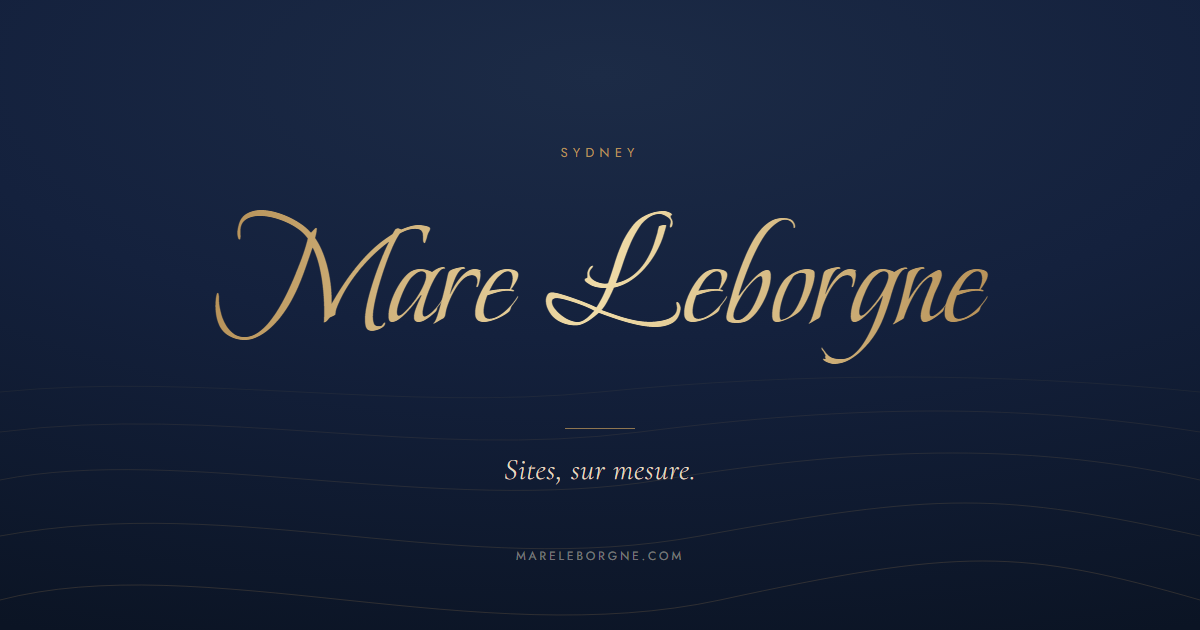
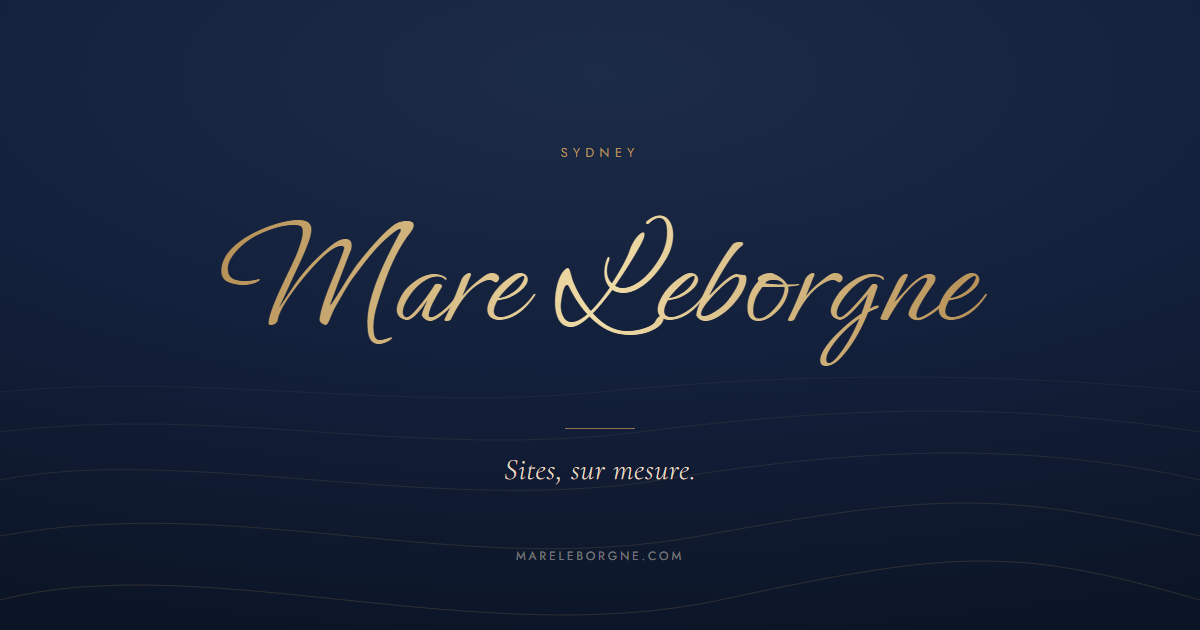
Set the wordmark in Ephesis
Beau Rivage was elegant but formal. Ephesis is warmer and slightly
irregular, so the mark reads as written rather than engraved, and the
"Augusto Leborgne" signature now looks like a signature.

Subset through the same ?text= endpoint and inlined as before, so the
mark still paints on first render with no third-party round trip. The
unicode-range is identical, and the subset is 5,828 bytes against Beau
Rivage's 7,464, so the page gets smaller.

og-card.html and og.png regenerated to match. Anyone who already has the
old card cached will keep it; the scrapers refresh on their own schedule.

Changed region(s): [[0.185, 0.3317, 0.8325, 0.6032], [0.1542, 0.4825, 0.185, 0.5127]]

diff --git a/index.html b/index.html
@@ -36,22 +36,22 @@
 
 <link rel="preconnect" href="https://fonts.googleapis.com">
 <link rel="preconnect" href="https://fonts.gstatic.com" crossorigin>
-<!-- Beau Rivage is inlined in the stylesheet below; only the faces actually used
+<!-- Ephesis is inlined in the stylesheet below; only the faces actually used
      by a rule are requested here (6, not the 13 that were being downloaded) -->
 <link href="https://fonts.googleapis.com/css2?family=Cormorant+Garamond:ital,wght@0,300;0,400;1,300;1,400&family=EB+Garamond:wght@400&family=Jost:wght@400&display=swap" rel="stylesheet">
 <style>
-  /* Beau Rivage, subset to just the letters in "Mare Leborgne" (6,140 bytes
-     against 38,004 for the full Latin face). Inlined so the wordmark paints on
-     first render with no third-party round trip: with a normal webfont link the
-     138px mark shows in the browser's `cursive` generic first, which on Windows
-     Chrome is Comic Sans. The unicode-range is Google's own and must stay as it
-     is — it lets any character outside those letters fall through to the next
-     font in the stack instead of rendering as tofu. Licence: OFL.
-     Regenerate via the ?text= endpoint if the wordmark ever changes. */
+  /* Ephesis, subset to the letters in "Mare Leborgne" and the "Augusto
+     Leborgne" signature (5,828 bytes against the full Latin face). Inlined so
+     the wordmark paints on first render with no third-party round trip: with a
+     normal webfont link the 138px mark shows in the browser's `cursive` generic
+     first, which on Windows Chrome is Comic Sans. The unicode-range is Google's
+     own and must stay as it is — it lets any character outside those letters
+     fall through to the next font in the stack instead of rendering as tofu.
+     Licence: OFL. Regenerate via the ?text= endpoint if the wordmark changes. */
   @font-face{
-    font-family:'Beau Rivage';
+    font-family:'Ephesis';
     font-style:normal;font-weight:400;font-display:block;
[2 lines of base64/hex data omitted]
     unicode-range:U+20,U+41,U+4c-4d,U+61-62,U+65,U+67,U+6e-6f,U+72-75;
   }
 
@@ -154,7 +154,7 @@
     transform:translateY(-101%);transition:transform 1s var(--ease);
   }
   header.visible{transform:translateY(0);}
-  header .hmark{font-family:'Beau Rivage',cursive;font-size:27px;color:var(--brass);line-height:1;text-decoration:none;display:inline-block;padding:5px 2px;}
+  header .hmark{font-family:'Ephesis',cursive;font-size:27px;color:var(--brass);line-height:1;text-decoration:none;display:inline-block;padding:5px 2px;}
   header a.henq{
     font-family:'Jost',sans-serif;font-size:11px;letter-spacing:.2em;text-transform:uppercase;
     color:var(--ivory);text-decoration:none;position:relative;
@@ -232,7 +232,7 @@
   }
   .hero .eyebrow .clock{color:rgba(243,236,221,.65);}
   .hero h1{
-    font-family:'Beau Rivage',cursive;font-weight:400;
+    font-family:'Ephesis',cursive;font-weight:400;
     /* generous line-height + padding: the background-clip gradient only paints
        inside the element box, so a tight box would cut the script descenders */
     font-size:clamp(58px,11.5vw,138px);line-height:1.32;margin-bottom:8px;padding:0 .1em .14em;
@@ -341,7 +341,7 @@
   /* ─────────── signature ─────────── */
   .sig{margin-top:50px;}
   .sig .nm{
-    font-family:'Beau Rivage','Snell Roundhand','Apple Chancery','Segoe Script',cursive;
+    font-family:'Ephesis','Snell Roundhand','Apple Chancery','Segoe Script',cursive;
     font-size:clamp(34px,4.4vw,46px);color:var(--brass);line-height:1.3;padding-bottom:.08em;
   }
   .sig .rl{
@@ -405,7 +405,7 @@
 
   /* ─────────── footer ─────────── */
   footer{background:var(--navy-deep);color:rgba(243,236,221,.55);text-align:center;padding:64px 24px 44px;position:relative;}
-  footer .fmark{font-family:'Beau Rivage',cursive;font-size:44px;color:var(--brass);line-height:1.28;padding-bottom:.1em;margin-bottom:4px;text-decoration:none;display:inline-block;}
+  footer .fmark{font-family:'Ephesis',cursive;font-size:44px;color:var(--brass);line-height:1.28;padding-bottom:.1em;margin-bottom:4px;text-decoration:none;display:inline-block;}
   footer .ftag{font-family:'Cormorant Garamond',serif;font-style:italic;font-size:16px;color:rgba(243,236,221,.62);}
   /* the address in the hero's face, so the page opens and closes on the same
      line. Padding, not margin: it carries the 44px tap target a thumb needs

diff --git a/og-card.html b/og-card.html
@@ -25,7 +25,7 @@
 -->
 <link rel="preconnect" href="https://fonts.googleapis.com">
 <link rel="preconnect" href="https://fonts.gstatic.com" crossorigin>
-<link href="https://fonts.googleapis.com/css2?family=Cormorant+Garamond:ital,wght@1,300&family=Jost:wght@400&family=Beau+Rivage&display=block" rel="stylesheet">
+<link href="https://fonts.googleapis.com/css2?family=Cormorant+Garamond:ital,wght@1,300&family=Jost:wght@400&family=Ephesis&display=block" rel="stylesheet">
 <style>
   *{box-sizing:border-box;margin:0;padding:0;}
   html,body{width:1200px;height:630px;overflow:hidden;}
@@ -47,7 +47,7 @@
     text-transform:uppercase;color:#B8935A;margin-bottom:22px;
   }
   h1{
-    font-family:'Beau Rivage',cursive;font-weight:400;font-size:150px;line-height:1.3;
+    font-family:'Ephesis',cursive;font-weight:400;font-size:150px;line-height:1.3;
     padding:0 .1em .14em;margin-bottom:6px;
     background:linear-gradient(100deg,#8a6a3a 0%,#B8935A 32%,#F0DCA8 50%,#B8935A 68%,#8a6a3a 100%);
     background-size:260% 100%;background-position:50% 0;   /* the sheen at its brightest */
